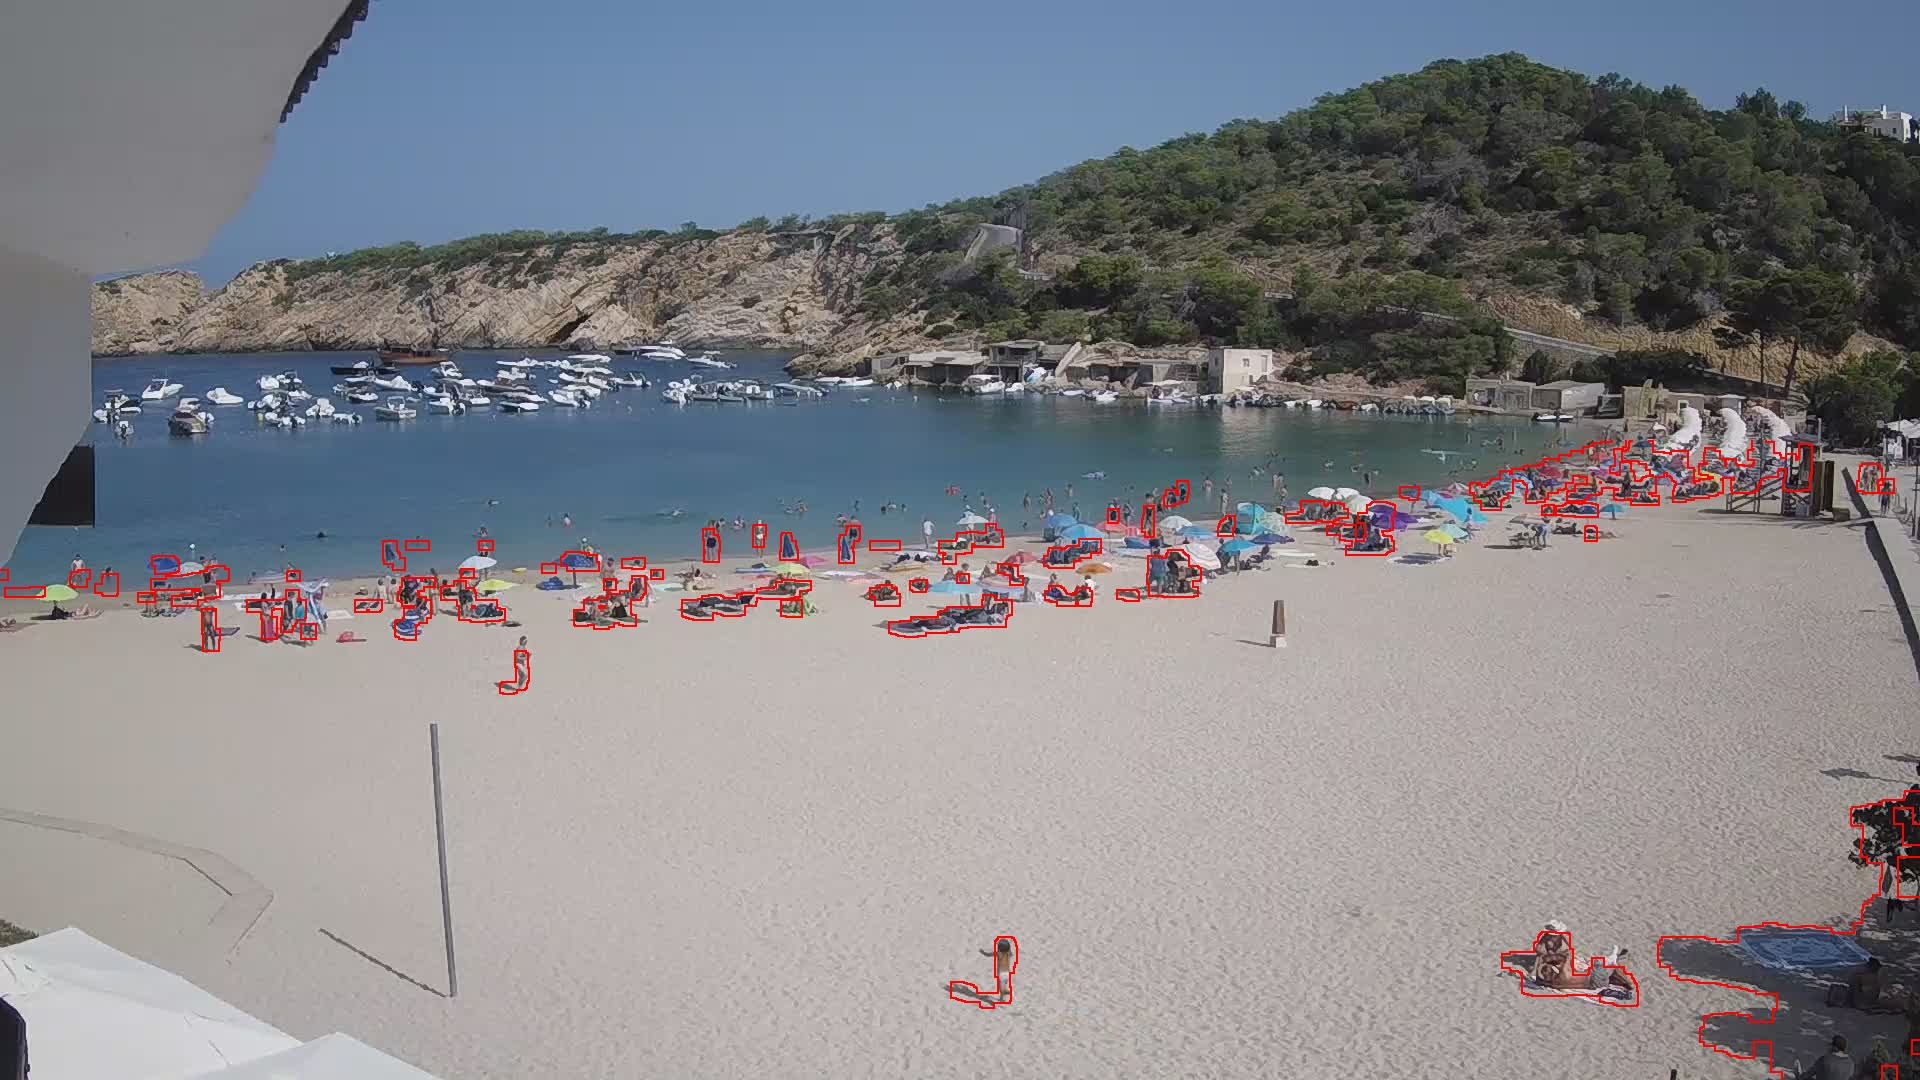
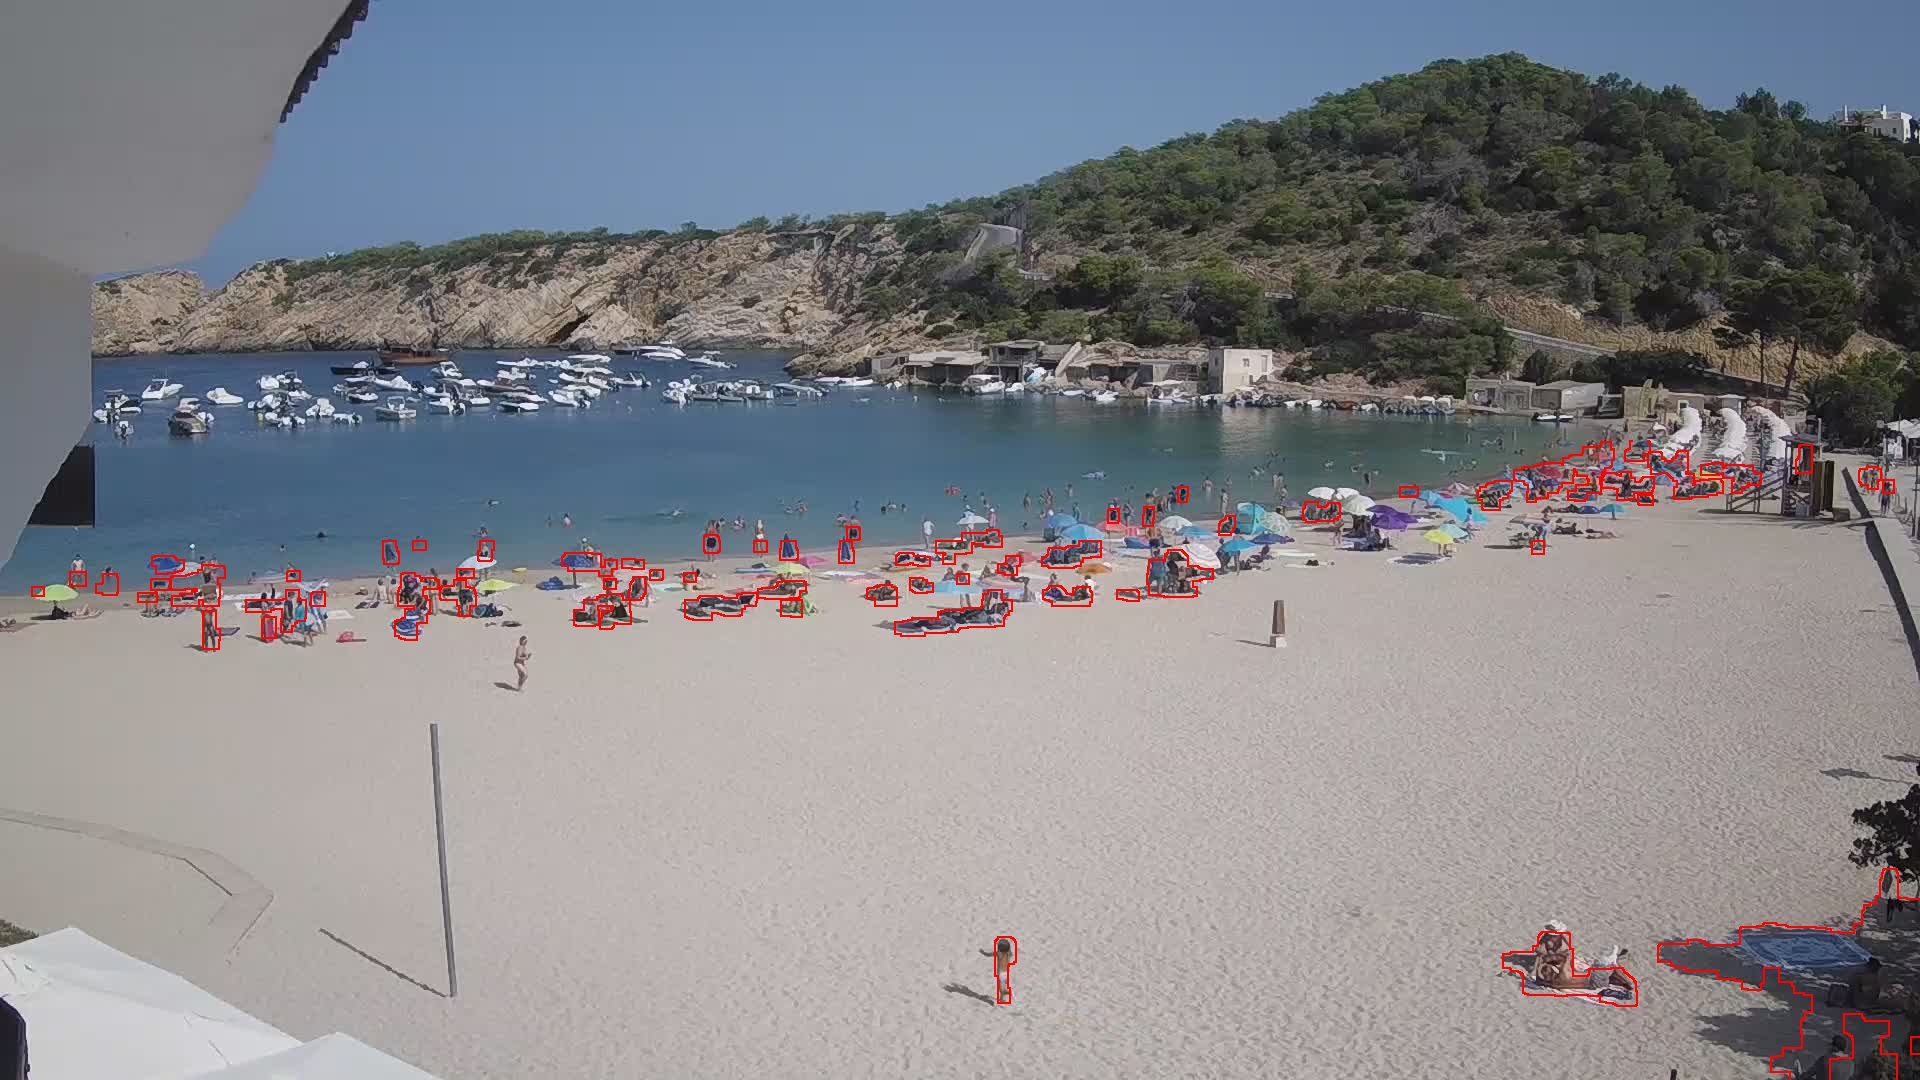
Minor improvement of results

diff --git a/image_analyzer.py b/image_analyzer.py
@@ -48,9 +48,11 @@ def compute_differences(original_img, empty_img):
     clahe = cv2.createCLAHE(clipLimit=1)
 
     empty_img_ = empty_img.copy()
+    empty_img_ = cv2.GaussianBlur(empty_img_, (3, 3), 0) # Slight improvement of accuracy
     empty_img_[0:440, :] = 0
 
     image_mod_ = original_img.copy()
+    image_mod_ = cv2.GaussianBlur(image_mod_, (3, 3), 0)
     image_mod_[0:440, :] = 0
 
     empty_image_ = clahe.apply(empty_img_)
